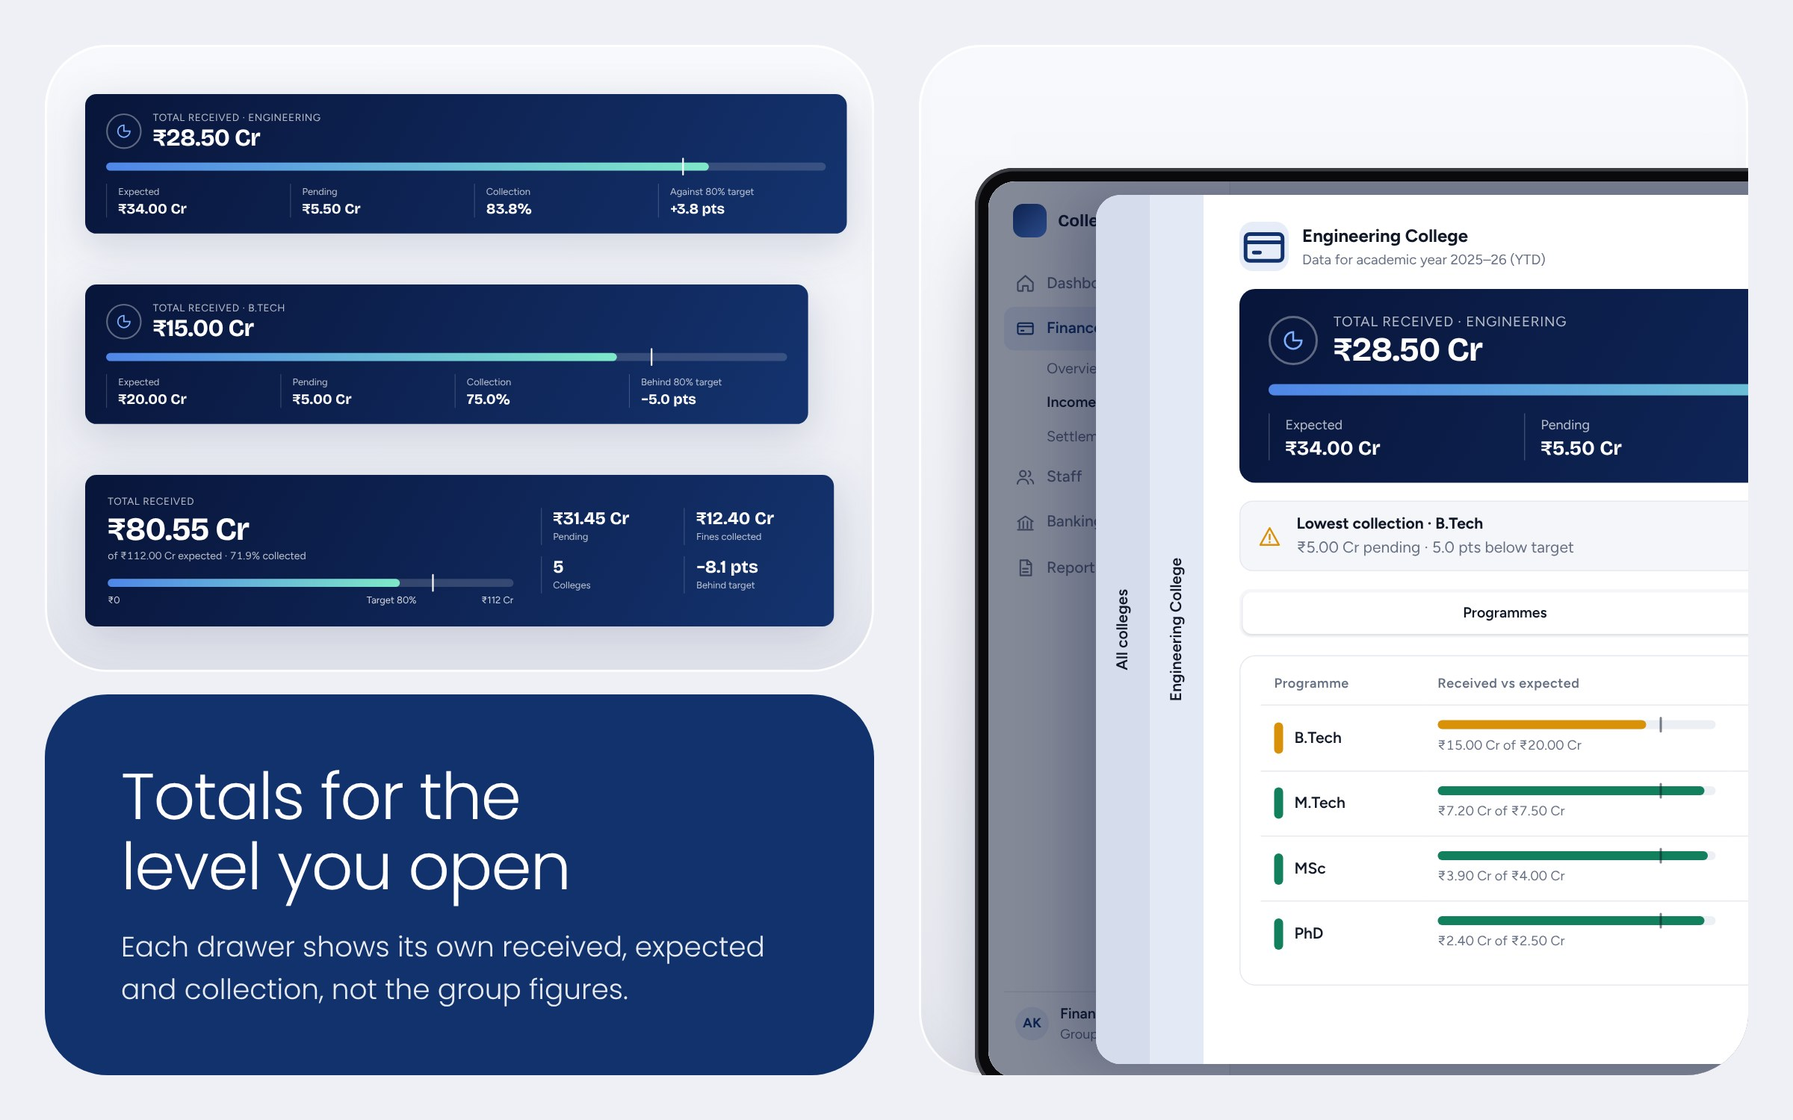
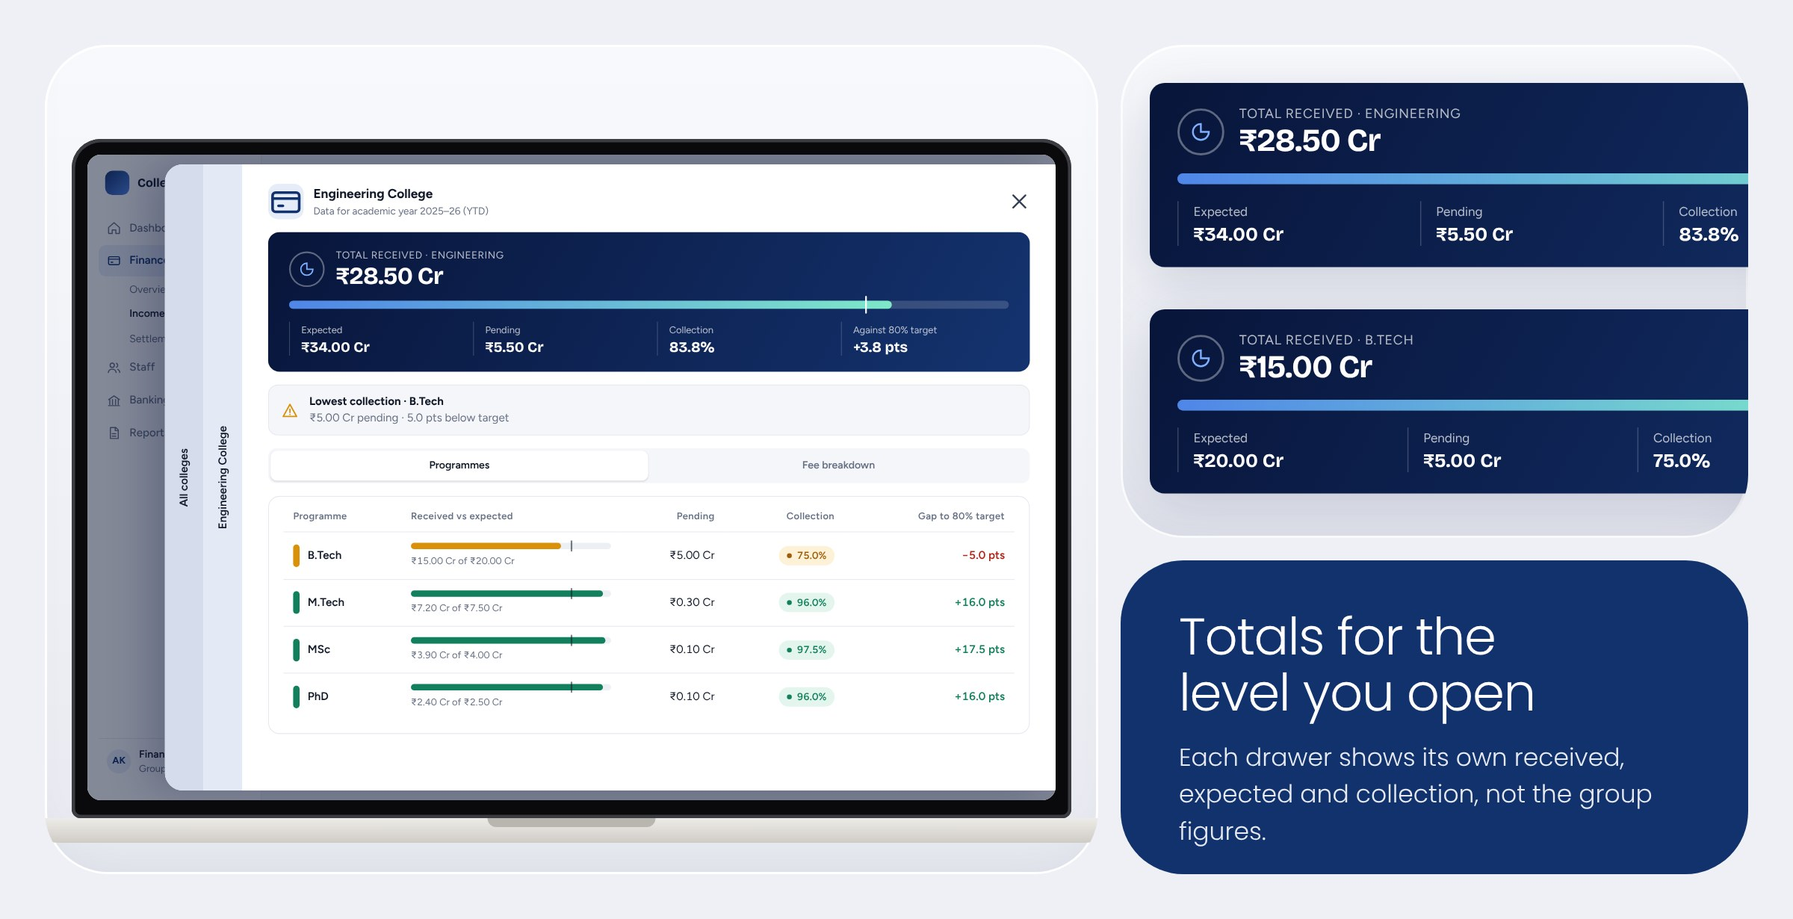
Rework the college ERP modules: full screens in laptops, dense bento plates, dark modules
Claude-Session: https://claude.ai/code/session_019RXfrYALdCQQdeJTaGbgF2

diff --git a/scripts/mockups/college/modules.html b/scripts/mockups/college/modules.html
@@ -21,6 +21,15 @@ body{margin:0;background:#fff;font-family:var(--ui)}
 .dot{position:absolute;width:20px;height:20px;border-radius:50%;background:#12326E;box-shadow:0 0 0 5px #fff;transform:translate(-50%,-50%)}
 svg.ln{position:absolute;left:0;top:0;overflow:visible;pointer-events:none}
 .lbl2{position:absolute;font:500 26px Figtree,sans-serif;color:#8C8FA0}
+
+.block.sm{padding:44px 52px}.block.sm h3{font-size:46px}.block.sm p{font-size:22px;margin-top:16px}
+.dark{position:absolute;overflow:hidden;border-radius:56px;background:radial-gradient(120% 140% at 85% 0%,#1B3F86 0%,#0F2352 45%,#08153A 100%);box-shadow:inset 0 0 0 2px rgba(255,255,255,.08)}
+.dtxt{position:absolute;color:#fff;max-width:560px}.dtxt h3{font-weight:300;font-size:52px;margin:0;letter-spacing:-.02em;line-height:1.08;text-wrap:balance}.dtxt p{font-weight:300;font-size:25px;line-height:1.5;margin:20px 0 0;opacity:.78;max-width:520px}
+.lap{position:absolute}.lap .bz{background:#0A0A0D;padding:14px 14px 16px;border-radius:26px 26px 8px 8px;box-shadow:inset 0 0 0 3px #3b3b42}
+.lap .scr{overflow:hidden;border-radius:12px;background:#fff;position:relative}
+.lap .base{height:22px;margin:0 -34px;border-radius:0 0 28px 28px;background:linear-gradient(180deg,#EDEBE7,#CFCCC6);box-shadow:0 30px 40px -24px rgba(10,10,40,.55);position:relative}
+.lap .base:after{content:"";position:absolute;left:50%;top:0;width:150px;height:8px;margin-left:-75px;border-radius:0 0 10px 10px;background:#B9B6AF}
+.swp{position:absolute;border-radius:56px;overflow:hidden}
 </style>
 <div id="lib"></div>
 <div id="out"></div>
@@ -40,6 +49,13 @@ function mon(sel,k,l,t,sx,sy,w,h){const m=document.createElement('div');m.classN
   const s=document.createElement('div');s.className='scr';s.style.cssText=`width:${w}px;height:${h}px;position:relative`;
   const c=q(sel+' .app').cloneNode(true);c.dataset.h=q(sel+' .app').getBoundingClientRect().height;c.style.cssText=`position:absolute;left:${-sx*k}px;top:${-sy*k}px;transform:scale(${k});transform-origin:0 0;width:1200px;height:${c.dataset.h||800}px;margin:0`;
   s.appendChild(c);m.appendChild(s);return m}
+function lap(sel,k,l,t,h,sx=0,sy=0){const m=document.createElement('div');m.className='lap';m.style.cssText=`left:${l}px;top:${t}px`;
+  const bz=document.createElement('div');bz.className='bz';const sc=document.createElement('div');sc.className='scr';sc.style.cssText=`width:${1200*k}px;height:${h}px`;
+  const src=q(sel+' .app');const c=src.cloneNode(true);const hh=src.getBoundingClientRect().height;
+  c.style.cssText=`position:absolute;left:${-sx*k}px;top:${-sy*k}px;transform:scale(${k});transform-origin:0 0;width:1200px;height:${hh}px;margin:0`;
+  sc.appendChild(c);bz.appendChild(sc);m.appendChild(bz);const b=document.createElement('div');b.className='base';m.appendChild(b);return m}
+function dark(parent,l,t,w,h){const p=document.createElement('div');p.className='dark';p.style.cssText=`left:${l}px;top:${t}px;width:${w}px;height:${h}px`;parent.appendChild(p);return p}
+function dtxt(parent,l,t,title,text){const d=document.createElement('div');d.className='dtxt';d.style.cssText=`left:${l}px;top:${t}px`;d.innerHTML=`<h3>${title}</h3><p>${text}</p>`;parent.appendChild(d)}
 function plate(parent,l,t,w,h){const p=document.createElement('div');p.className='plate';p.style.cssText=`left:${l}px;top:${t}px;width:${w}px;height:${h}px`;parent.appendChild(p);return p}
 function block(parent,l,t,w,h,title,text){const b=document.createElement('div');b.className='block';b.style.cssText=`left:${l}px;top:${t}px;width:${w}px;height:${h}px`;b.innerHTML=`<h3>${title}</h3><p>${text}</p>`;parent.appendChild(b)}
 function cardc(parent,l,t,w,h){const c=document.createElement('div');c.className='card-c';c.style.cssText=`left:${l}px;top:${t}px;width:${w}px;height:${h}px`;parent.appendChild(c);return c}
@@ -52,74 +68,78 @@ function dot(parent,x,y){const d=document.createElement('div');d.className='dot'
 function cmp(html,k,l,t,{drop=true}={}){const h=document.createElement('div');h.className='z cmp'+(drop?' drop':'');h.style.cssText=`left:${l}px;top:${t}px;transform:scale(${k})`;h.innerHTML=html;return h}
 
 window.build=()=>{
-// 1 SPREAD: path spines
-{const m=mod('m-spines',1000);
- const a=plate(m,40,40,740,920);a.appendChild(mon('#s-d3',1,50,120,0,0,900,800));
- const b=plate(m,820,40,740,560);const c=cardc(b,60,60,620,440);
- const e=q('#s-d3 .app').cloneNode(true);e.style.cssText='position:absolute;left:-145px;top:-30px;transform:scale(1.5);transform-origin:0 0;width:1200px;height:800px;margin:0';c.appendChild(e);
- block(m,820,620,740,340,'Every level stays in view','Group, college and programme stay on screen as spines while the next drawer opens.');}
-// 2 SPOTLIGHT: target bar
-{const m=mod('m-target',720);const p=plate(m,40,40,1520,640);
- const K=1.5,L0=60,T0=230;
- p.appendChild(z('#s-fin .hero',K,L0,T0,{drop:true}));
+// 1 HERO: laptop with the full drawer screen, enlarged header crop, title block
+{const m=mod('m-spines',820);
+ const A=plate(m,40,40,940,740);A.appendChild(lap('#s-d3',0.72,24,84,576));
+ const B=plate(m,1000,40,560,440);const c=cardc(B,28,28,504,384);
+ const e=q('#s-d3 .app').cloneNode(true);e.style.cssText='position:absolute;left:-135px;top:-26px;transform:scale(1.35);transform-origin:0 0;width:1200px;height:800px;margin:0';c.appendChild(e);
+ const bk=document.createElement('div');bk.className='block sm';bk.style.cssText='left:1000px;top:500px;width:560px;height:280px';bk.innerHTML='<h3>Every level stays in view</h3><p>Group, college and programme stay on screen as spines while the next drawer opens.</p>';m.appendChild(bk);}
+// 2 DARK: target at a glance
+{const m=mod('m-target',860);const p=dark(m,40,40,1520,780);
+ dtxt(p,80,90,'Collected against target, at a glance','One bar and one marker show how far the group is from 80%.');
+ const hero=z('#s-fin .hero',0.72,80,430,{drop:true});p.appendChild(hero);
+ p.appendChild(lap('#s-fin',0.6,760,80,560));
  const u=lib.querySelector('#s-fin .hero .track u').getBoundingClientRect();const hb=lib.querySelector('#s-fin .hero').getBoundingClientRect();
- const mx=L0+(u.left-hb.left)*K+1,my=T0+(u.top-hb.top)*K;
- callout(p,`M${mx} ${my} V${my-60} Q${mx} ${my-100} ${mx-40} ${my-100} H${mx-90}`);
- dot(p,mx,my+4);const pl=document.createElement('div');pl.className='pillc';pl.style.cssText=`left:${mx-96}px;top:${my-100-28}px;transform:translateX(-100%)`;pl.textContent='80% target';p.appendChild(pl);}
-// 3 SPREAD mirrored: totals per level
-{const m=mod('m-totals',1000);
- const a=plate(m,40,40,740,560);
- a.appendChild(z('#s-d2 .hero',0.72,36,44,{drop:true}));a.appendChild(z('#s-d3 .hero',0.72,36,214,{drop:true}));
- a.appendChild(z('#s-fin .hero',0.72,36,384,{drop:true}));
- block(m,40,620,740,340,'Totals for the level you open','Each drawer shows its own received, expected and collection, not the group figures.');
- const b=plate(m,820,40,740,920);b.appendChild(mon('#s-d2',1,50,110,0,0,900,800));}
-// 4 BENTO: ranked table pieces
+ const mx=80+(u.left-hb.left)*0.72+1,my=430+(u.top-hb.top)*0.72;
+ callout(p,`M${mx} ${my} V${my-34}`,null);dot(p,mx,my+2);}
+// 3 BENTO finance: dense plates
 {const m=mod('m-ranked',1000);
- const row=(n,c,pct,txt,w,chipc)=>`<div class="card" style="width:${w}px;display:flex;align-items:center;gap:26px"><div class="cname" style="width:150px"><i style="background:${c}"></i>${n}</div><div class="cell2" style="flex:1"><div class="mini"><b style="width:${pct}%;background:${c}"></b><u style="left:80%"></u></div><small class="num">${txt}</small></div><span class="chip ${chipc}">${pct}%</span></div>`;
- const A=plate(m,40,40,780,540);A.appendChild(z('#s-fin .main > .card:last-child',0.95,36,64,{drop:true}));
- const B=plate(m,840,40,720,540);
- B.appendChild(cmp(`<div style="display:flex;gap:22px;align-items:center;width:300px"><span class="chip ok">83.8%</span><span class="chip warn">72.7%</span><span class="chip bad">55.9%</span></div>`,2.0,70,60));
- B.appendChild(cmp(`<div class="card" style="width:340px;display:flex;flex-direction:column;gap:18px"><div class="cell2"><div class="mini"><b style="width:55.9%;background:#d92d20"></b><u style="left:80%"></u></div><small class="num">₹9.50 Cr of ₹17.00 Cr</small></div><div class="cell2"><div class="mini"><b style="width:83.8%;background:#12805c"></b><u style="left:80%"></u></div><small class="num">₹28.50 Cr of ₹34.00 Cr</small></div></div>`,1.6,70,230));
- const C=plate(m,40,600,500,360);
- C.appendChild(cmp(`<div class="card" style="width:230px;text-align:right"><div class="cap">Gap to 80% target</div><div style="font:700 28px var(--display);color:var(--bad);margin-top:6px" class="num">−24.1 pts</div></div>`,1.5,70,44));
- C.appendChild(cmp(`<div class="card" style="width:230px;text-align:right"><div class="cap">Gap to 80% target</div><div style="font:700 28px var(--display);color:var(--ok);margin-top:6px" class="num">+3.8 pts</div></div>`,1.5,70,220));
- const D=plate(m,560,600,1000,360);
- D.appendChild(cmp(row('Science','#d92d20',55.9,'₹9.50 Cr of ₹17.00 Cr',640,'bad'),1.4,50,50));
- D.appendChild(cmp(row('Engineering','#12805c',83.8,'₹28.50 Cr of ₹34.00 Cr',640,'ok'),1.4,50,200));}
-// 5 SPOTLIGHT: weakest named
-{const m=mod('m-weakest',720);const p=plate(m,40,40,1520,640);
- p.appendChild(z('#s-fin .callout',1.35,134,80,{drop:true}));
- p.appendChild(z('#s-d3 #lowline',1.55,170,380,{drop:true,w:800}));
- dot(p,760,156);
- callout(p,'M760 156 V250 Q760 280 790 280 H890',null);
- const pl=document.createElement('div');pl.className='pillc';pl.style.cssText='left:896px;top:252px';pl.textContent='Same line at every level';p.appendChild(pl);}
-// 6 SPREAD: attendance
-{const m=mod('m-attendance',1000);
- const a=plate(m,40,40,740,920);a.appendChild(mon('#s-staff',1,50,110,0,0,900,800));
- const b=plate(m,820,40,740,560);b.appendChild(z('#s-staff .row:nth-of-type(3) > .card:first-child',1.12,56,60,{drop:true}));
- block(m,820,620,740,340,'Attendance at a glance','Present, absent and on leave for each college, in one bar.');}
-// 7 BENTO: staff pieces
+ const A=plate(m,40,40,880,600);A.appendChild(z('#s-fin .main > .card:last-child',1.12,24,36,{drop:true}));
+ const B=plate(m,940,40,620,600);
+ B.appendChild(z('#s-fin .callout',0.9,22,36,{drop:true,w:1000}));
+ B.appendChild(z('#s-fin .hero',0.72,22,150,{drop:true}));
+ B.appendChild(cmp(`<div class="card" style="width:880px;display:flex;flex-direction:column;gap:18px"><div class="cell2"><div class="mini"><b style="width:55.9%;background:#d92d20"></b><u style="left:80%"></u></div><small class="num">Science · ₹9.50 Cr of ₹17.00 Cr</small></div><div class="cell2"><div class="mini"><b style="width:83.8%;background:#12805c"></b><u style="left:80%"></u></div><small class="num">Engineering · ₹28.50 Cr of ₹34.00 Cr</small></div></div>`,0.76,22,370));
+ const C=plate(m,40,660,500,300);
+ C.appendChild(cmp(`<div style="display:flex;gap:16px"><span class="chip ok">83.8%</span><span class="chip warn">72.7%</span><span class="chip bad">55.9%</span></div>`,1.7,34,40));
+ C.appendChild(cmp(`<div style="display:flex;gap:16px"><span class="chip bad">69.7%</span><span class="chip bad">66.7%</span></div>`,1.7,34,130));
+ C.appendChild(cmp(`<div style="display:flex;gap:16px"><span class="chip warn">72.7%</span></div>`,1.7,34,220));
+ const D=plate(m,560,660,500,300);
+ D.appendChild(cmp(`<div class="card" style="width:260px;text-align:right"><div class="cap">Gap to 80% target</div><div style="font:700 28px var(--display);color:var(--bad);margin-top:6px" class="num">−24.1 pts</div></div>`,1.45,40,30));
+ D.appendChild(cmp(`<div class="card" style="width:260px;text-align:right"><div class="cap">Gap to 80% target</div><div style="font:700 28px var(--display);color:var(--ok);margin-top:6px" class="num">+3.8 pts</div></div>`,1.45,40,170));
+ const E=plate(m,1080,660,480,300);E.appendChild(z('#s-fin .main > .row:nth-of-type(4) > .card:nth-child(2)',0.95,30,30,{drop:true}));}
+// 4 SPREAD staff: attendance crop + title + laptop with the staff screen
+{const m=mod('m-attendance',820);
+ const A=plate(m,40,40,560,440);A.appendChild(z('#s-staff .row:nth-of-type(3) > .card:first-child',1.0,28,36,{drop:true}));
+ const bk=document.createElement('div');bk.className='block sm';bk.style.cssText='left:40px;top:500px;width:560px;height:280px';bk.innerHTML='<h3>Attendance at a glance</h3><p>Present, absent and on leave for each college, in one bar.</p>';m.appendChild(bk);
+ const B=plate(m,620,40,940,740);B.appendChild(lap('#s-staff',0.72,24,84,576));}
+// 5 DARK: four levels cascade
+{const m=mod('m-weakest',860);const p=dark(m,40,40,1520,780);
+ dtxt(p,80,90,'The weakest row is named at every level','The same line opens each drawer, with its gap to target.');
+ const a=lap('#s-d2',0.5,700,90,400);a.style.filter='drop-shadow(0 30px 40px rgba(0,0,0,.4))';p.appendChild(a);
+ const b=lap('#s-d3',0.5,940,310,400);b.style.filter='drop-shadow(0 30px 40px rgba(0,0,0,.45))';p.appendChild(b);
+ p.appendChild(z('#s-d3 #lowline',0.8,80,470,{drop:true,w:700}));}
+// 6 BENTO staff: dense
 {const m=mod('m-staff',1000);
- const A=plate(m,40,40,1000,540);A.appendChild(z('#s-staff .main > .row:nth-of-type(2)',1.05,40,170,{drop:false}));
- const B=plate(m,1060,40,500,540);B.appendChild(z('#s-staff .row:nth-of-type(3) > .card:nth-child(2)',1.0,40,60,{drop:true}));
- const C=plate(m,40,600,760,360);C.appendChild(z('#s-staff .main > .card:last-child',0.82,40,50,{drop:true}));
- const D=plate(m,820,600,740,360);
- D.appendChild(z('#s-staff .row:nth-of-type(2) > .card:nth-child(3)',1.7,150,80,{drop:true}));}
-// 8 COLOUR AND STATUS
-{const m=mod('m-colour',820);const p=plate(m,40,40,1520,740);
- const sw=(c,n)=>`<div style="width:170px"><div style="height:130px;border-radius:26px;background:${c};box-shadow:0 18px 30px -18px rgba(8,21,58,.5)"></div><div style="font:600 23px Figtree;margin-top:14px;color:#1B2340">${n}</div><div style="font:500 19px Figtree;color:#8C8FA0">${c}</div></div>`;
- const row=(a,l,t)=>{const d=document.createElement('div');d.className='abs';d.style.cssText=`left:${l}px;top:${t}px;display:flex;gap:36px`;d.innerHTML=a;p.appendChild(d)};
- row(sw('#08153A','Navy 900')+sw('#12326E','Navy 700')+sw('#4F86E8','Blue 400')+sw('#F5F6F9','Canvas'),90,100);
- row(sw('#12805C','On target')+sw('#D9910A','Near target')+sw('#D92D20','Below target'),90,400);
- p.appendChild(cmp(`<div style="display:flex;gap:14px"><span class="chip ok">83.8%</span><span class="chip warn">72.7%</span><span class="chip bad">55.9%</span></div>`,1.7,990,130));
- p.appendChild(cmp(`<div class="card" style="width:300px;display:flex;flex-direction:column;gap:20px"><div class="cell2"><div class="mini"><b style="width:84%;background:#12805c"></b><u style="left:80%"></u></div></div><div class="cell2"><div class="mini"><b style="width:73%;background:#d9910a"></b><u style="left:80%"></u></div></div><div class="cell2"><div class="mini"><b style="width:56%;background:#d92d20"></b><u style="left:80%"></u></div></div></div>`,1.7,990,330));}
+ const A=plate(m,40,40,1000,600);A.appendChild(z('#s-staff .main > .row:nth-of-type(2)',1.04,22,36,{drop:false}));
+ A.appendChild(z('#s-staff .row:nth-of-type(3) > .card:first-child',1.0,22,230,{drop:true}));A.appendChild(z('#s-staff .row:nth-of-type(3) > .card:nth-child(2)',0.92,660,230,{drop:true}));
+ const B=plate(m,1060,40,500,600);
+ B.appendChild(z('#s-staff .row:nth-of-type(2) > .card:nth-child(3)',1.5,80,36,{drop:true}));B.appendChild(z('#s-staff .row:nth-of-type(2) > .card:nth-child(4)',1.5,80,214,{drop:true}));B.appendChild(z('#s-staff .row:nth-of-type(2) > .card:nth-child(5)',1.5,80,392,{drop:true}));
+ const C=plate(m,40,660,860,300);C.appendChild(z('#s-staff .main > .card:last-child',0.9,28,36,{drop:true}));
+ const D=plate(m,920,660,640,300);
+ D.appendChild(z('#s-staff .row:nth-of-type(2) > .card:nth-child(2)',1.5,34,40,{drop:true}));D.appendChild(z('#s-staff .row:nth-of-type(2) > .card:nth-child(1)',1.5,334,40,{drop:true}));}
+// 7 SPREAD mirrored: laptop with the college drawer, banner crops, title
+{const m=mod('m-totals',820);
+ const A=plate(m,40,40,940,740);A.appendChild(lap('#s-d2',0.72,24,84,576));
+ const B=plate(m,1000,40,560,440);
+ B.appendChild(z('#s-d2 .hero',0.95,26,34,{drop:true}));B.appendChild(z('#s-d3 .hero',0.95,26,236,{drop:true}));
+ const bk=document.createElement('div');bk.className='block sm';bk.style.cssText='left:1000px;top:500px;width:560px;height:280px';bk.innerHTML='<h3>Totals for the level you open</h3><p>Each drawer shows its own received, expected and collection, not the group figures.</p>';m.appendChild(bk);}
+// 8 COLOUR bento: full-bleed colour plates
+{const m=mod('m-colour',900);
+ const sp=(l,t,w,h,bg,name,hex,light)=>{const d=document.createElement('div');d.className='swp';d.style.cssText=`left:${l}px;top:${t}px;width:${w}px;height:${h}px;background:${bg};color:${light?'#1B2340':'#fff'};box-shadow:inset 0 0 0 2px rgba(255,255,255,.18)`;d.innerHTML=`<div style="position:absolute;left:44px;bottom:38px"><div style="font:600 30px Figtree">${name}</div><div style="font:500 22px Figtree;opacity:.7;margin-top:4px">${hex}</div></div>`;m.appendChild(d);return d};
+ const nv=sp(40,40,740,420,'linear-gradient(135deg,#08153A,#12326E)','Navy','#08153A to #12326E');nv.appendChild(z('#s-fin .hero',0.74,44,50,{drop:true}));
+ const bl=sp(800,40,360,420,'#4F86E8','Blue','#4F86E8');bl.appendChild(cmp(`<div class="tabs" style="display:flex;flex-direction:column;gap:6px"><span class="on" style="padding:8px 16px">Programmes</span><span style="padding:8px 16px;background:#fff;color:#12326E;border-radius:8px">Fee breakdown</span></div>`,1.5,44,50));
+ const cv=sp(1180,40,380,420,'#F5F6F9','Canvas','#F5F6F9',true);cv.appendChild(cmp(`<div style="display:flex;flex-direction:column;gap:14px;align-items:flex-start"><span class="chip ok">83.8%</span><span class="chip warn">72.7%</span><span class="chip bad">55.9%</span></div>`,1.7,40,40));
+ const st=(l,c,bg,name,hex,pct,chip)=>{const d=sp(l,480,500,380,bg,name,hex);d.style.background=bg;d.appendChild(cmp(`<span class="chip ${chip}" style="background:#fff">${pct}%</span>`,1.8,44,44));
+   d.appendChild(cmp(`<div class="mini" style="background:rgba(255,255,255,.35);width:260px"><b style="width:${pct}%;background:#fff"></b><u style="left:80%;background:#fff;opacity:.9"></u></div>`,1.6,44,150));};
+ st(40,0,'#12805C','On target','#12805C, 80% and above',84,'ok');st(560,0,'#D9910A','Near target','#D9910A, 70% to 79%',73,'warn');st(1080,0,'#D92D20','Below target','#D92D20, under 70%',56,'bad');
+ m.lastChild.style.width='480px';}
 // 9 PROCESS: earlier layouts next to the redesign
-{const m=mod('m-process',760);
- const A=plate(m,40,40,1000,680);
+{const m=mod('m-process',860);
+ const A=plate(m,40,40,900,780);
  const img=(src,l,t,w)=>{const i=document.createElement('img');i.src=src;i.style.cssText=`position:absolute;left:${l}px;top:${t}px;width:${w}px;border-radius:22px;box-shadow:0 18px 40px -22px rgba(30,30,80,.35)`;A.appendChild(i)};
- img(IMG+'earlier-finance.webp',50,110,440);img(IMG+'earlier-drawer-college.webp',510,110,440);img(IMG+'earlier-drawer.webp',510,460,440);
- const l=document.createElement('div');l.className='lbl2';l.style.cssText='left:56px;top:56px';l.textContent='Earlier layouts';A.appendChild(l);
- const B=plate(m,1060,40,500,680);B.appendChild(mon('#s-d3',0.62,20,130,60,0,520,520));
- const l2=document.createElement('div');l2.className='lbl2';l2.style.cssText='left:56px;top:56px';l2.textContent='Redesign';B.appendChild(l2);}
+ img(IMG+'earlier-finance.webp',40,120,420);img(IMG+'earlier-drawer-college.webp',480,120,400);img(IMG+'earlier-drawer.webp',480,450,400);
+ const l=document.createElement('div');l.className='lbl2';l.style.cssText='left:50px;top:54px';l.textContent='Earlier layouts';A.appendChild(l);
+ const B=plate(m,960,40,600,780);B.appendChild(lap('#s-d3',0.46,12,170,368,0,0));
+ const l2=document.createElement('div');l2.className='lbl2';l2.style.cssText='left:50px;top:54px';l2.textContent='Redesign';B.appendChild(l2);}
 };
 </script>

diff --git a/src/data/collegeGallery.ts b/src/data/collegeGallery.ts
@@ -21,13 +21,13 @@ export const COLLEGE_BRAND = {
 }
 
 export const COLLEGE_IMAGES: CollegeImage[] = [
-  img('01-spines.jpg', 1500, 'A desktop screen of the B.Tech batch drawer beside the enlarged drawer header, with the group, college and programme spines', 'Every level stays on screen.'),
-  img('02-target.jpg', 1080, 'The total received card with the 80% target marked on its progress bar', 'One bar shows whether the group is on track.'),
-  img('03-totals.jpg', 1500, 'Three summary banners (Engineering, B.Tech, group) beside the college drawer on a desktop screen', 'Each drawer shows its own totals.'),
+  img('01-spines.jpg', 1230, 'A laptop showing the B.Tech batch drawer beside the enlarged drawer header, with the group, college and programme spines', 'Every level stays on screen.'),
+  img('02-target.jpg', 1290, 'The total received card with the 80% target marked, beside a laptop showing the finance overview', 'One bar shows whether the group is on track.'),
+  img('03-totals.jpg', 1230, 'A laptop showing the college drawer beside the Engineering and B.Tech summary banners', 'Each drawer shows its own totals.'),
   img('04-ranked.jpg', 1500, 'The ranked college table, collection chips, progress bars and gap-to-target cards as separate components', 'One column to scan for the weakest college.'),
-  img('05-weakest.jpg', 1080, 'The lowest-collection banner on the finance page and the same line inside a drawer', 'The weakest row is named at every level.'),
-  img('06-attendance.jpg', 1500, 'The staff overview on a desktop screen beside the attendance-by-college card', 'Attendance by college in one bar each.'),
+  img('05-weakest.jpg', 1290, 'Two laptops showing the college and programme drawers, with the lowest-collection line below the title', 'The weakest row is named at every level.'),
+  img('06-attendance.jpg', 1230, 'A laptop showing the staff overview beside the attendance-by-college card', 'Attendance by college in one bar each.'),
   img('07-staff.jpg', 1500, 'Staff KPI cards, the needs-attention list, the absence table and the absent card as separate components', 'Staff numbers, alerts and absences as separate cards.'),
-  img('08-colour.jpg', 1230, 'The navy palette, the green, amber and red status colours, collection chips and progress bars', 'One status system across every screen.'),
-  img('09-process.jpg', 1140, 'The earlier finance and drawer layouts next to the redesigned drawer', 'Earlier layouts next to the redesign.'),
+  img('08-colour.jpg', 1350, 'The navy and blue palette, the canvas colour, and the green, amber and red status colours with collection chips and progress bars', 'One status system across every screen.'),
+  img('09-process.jpg', 1290, 'The earlier finance and drawer layouts next to the redesigned drawer on a laptop', 'Earlier layouts next to the redesign.'),
 ]
